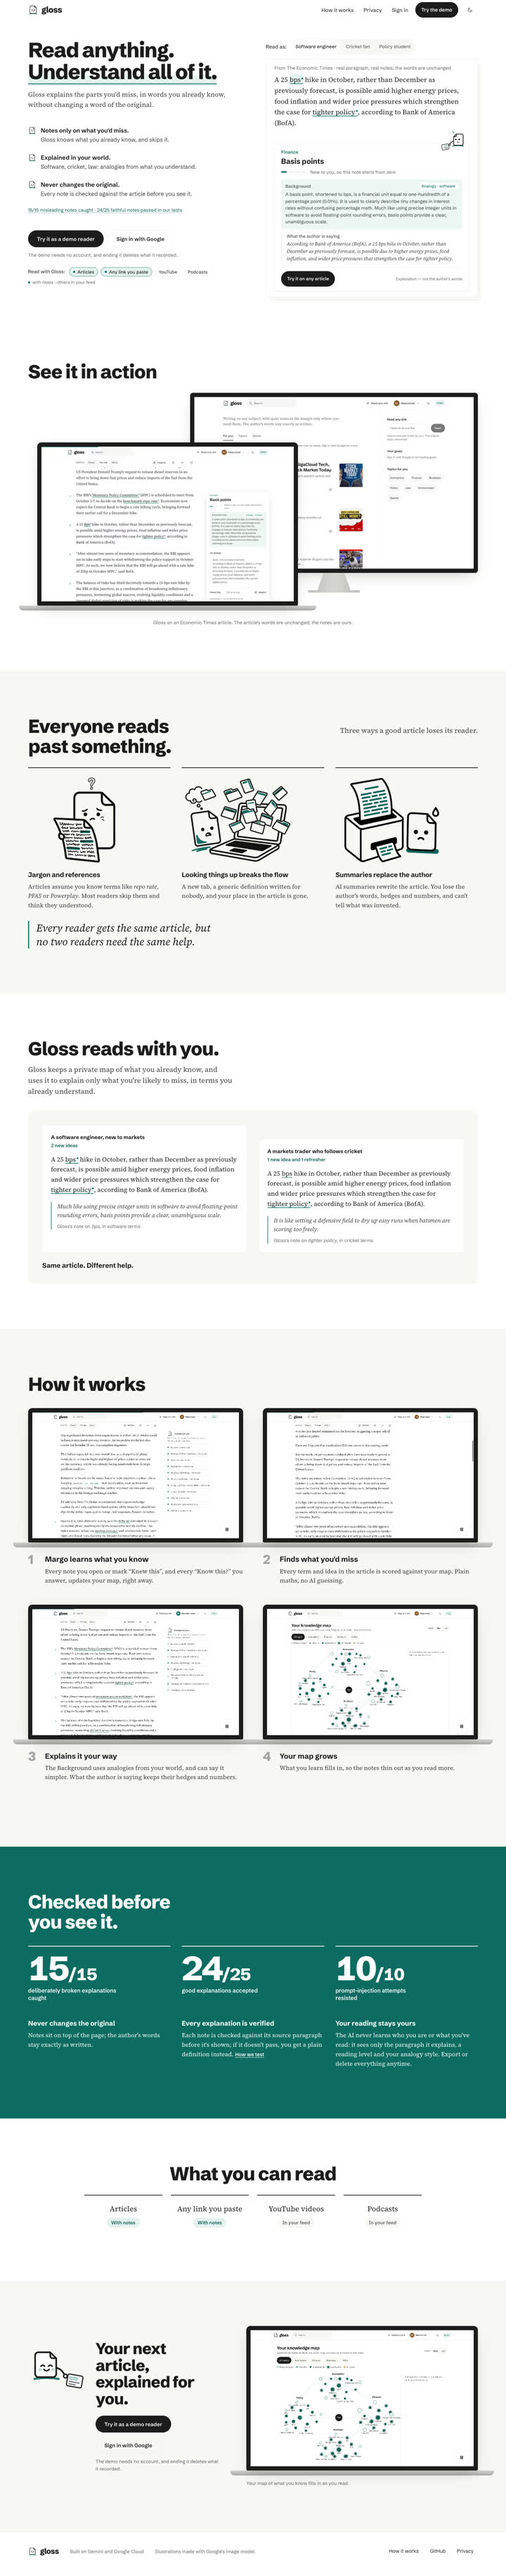
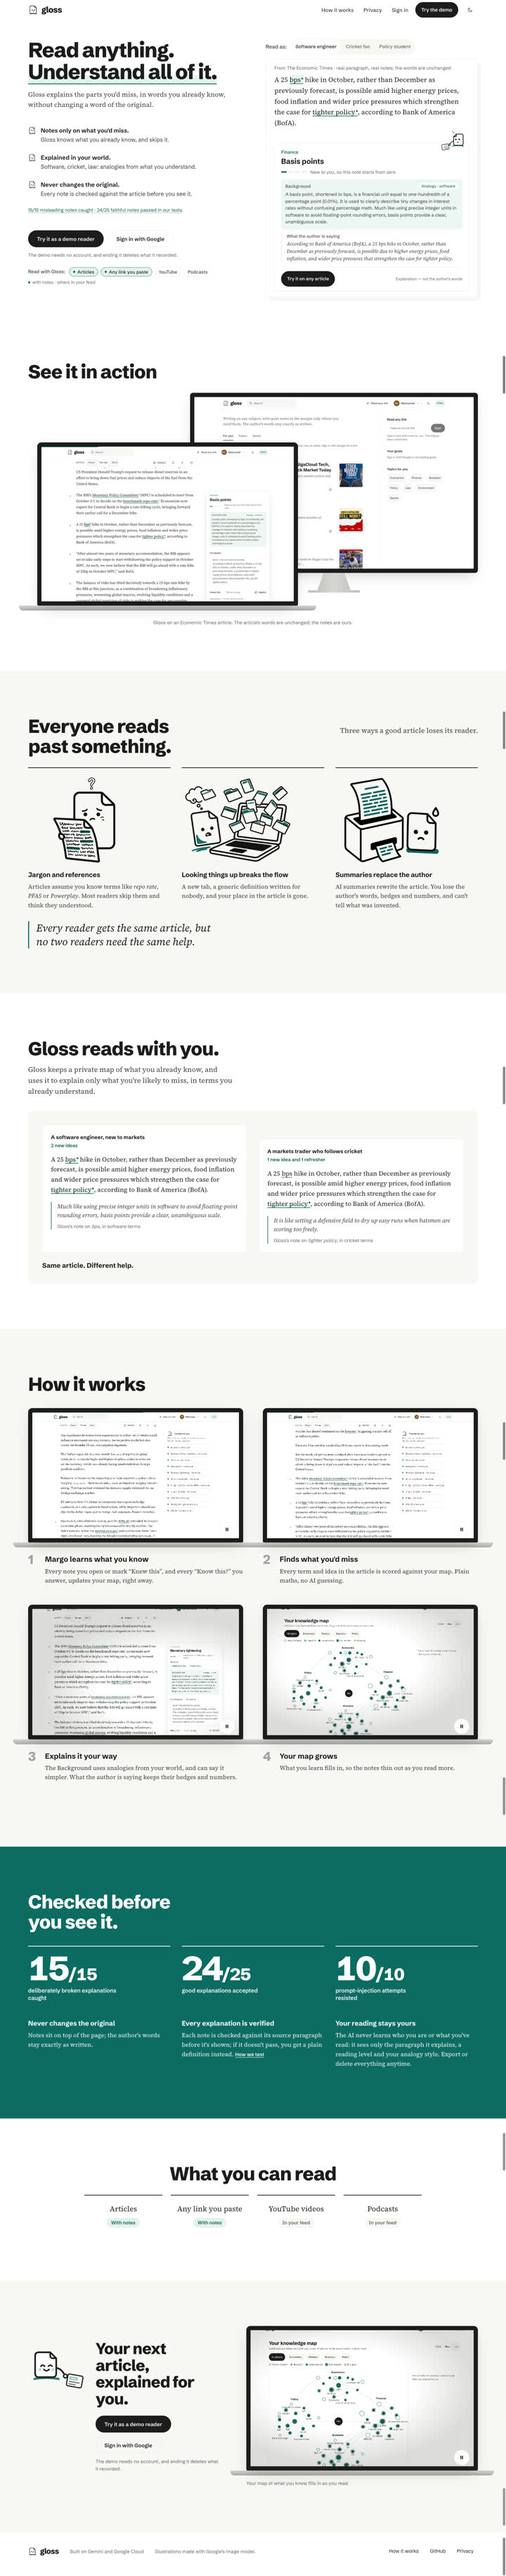
landing refresh: live, harness full-page fix, YouTube button planned
Live check passed (axe 0, sections, stills at 1440 and 390, both themes). Full-page shots now
stitched from viewport tiles: captureBeyondViewport re-mounted the See it in action stills.

diff --git a/tools/shots/landing_refresh.py b/tools/shots/landing_refresh.py
@@ -16,6 +16,7 @@ import json
 import re
 import subprocess
 import sys
+from pathlib import Path
 
 sys.path.insert(0, __file__.rsplit("/", 1)[0])
 import cdp  # noqa: E402
@@ -25,8 +26,11 @@ AFTER, BEFORE = "http://localhost:4173", "http://localhost:4174"
 WIDTHS = (320, 390, 768, 1024, 1440, 1920)
 NEW_STILLS = ("shot-extension", "shot-popup", "shot-media")
 SCROLL_ALL = """(async () => { for (let y = 0; y < document.body.scrollHeight; y += 400) { scrollTo(0, y);
-  await new Promise(r => setTimeout(r, 100)); } scrollTo(0, 0); return true; })()"""
-STILLS_DONE = "[...document.querySelectorAll('img.lp-still')].every(i => i.complete && i.naturalWidth > 0)"
+  await new Promise(r => setTimeout(r, 250)); } scrollTo(0, 0); return true; })()"""
+# Every visible still is loaded, and none is left a placeholder (a still that never came near
+# would otherwise pass unnoticed; the popup is display:none below 768, so not visible).
+STILLS_DONE = """[...document.querySelectorAll('img.lp-still')].every(i => i.complete && i.naturalWidth > 0)
+  && ![...document.querySelectorAll('.lp-still--pending')].some(e => e.checkVisibility())"""
 HEADINGS = "[...document.querySelectorAll('h1, h2, h3, h4')].map(h => [+h.tagName[1], h.textContent.trim().slice(0, 40)])"
 NO_ALT = "[...document.querySelectorAll('img, [role=img]')].filter(e => !(e.getAttribute('alt') || e.getAttribute('aria-label') || e.closest('[aria-hidden=true]'))).map(e => e.outerHTML.slice(0, 80))"
 REQUESTED = "performance.getEntriesByType('resource').map(e => e.name.split('/').pop())"
@@ -40,6 +44,29 @@ def diff_box(a: str, b: str) -> list[int] | None:
                          capture_output=True, text=True).stderr
     boxes = re.findall(r"x1:(\d+) x2:(\d+) y1:(\d+) y2:(\d+)", out)
     return [int(v) for v in boxes[-1]] if boxes else None
+
+
+async def full_shot(p, name: str) -> str:
+    """The whole page as viewport tiles taken while scrolling, then stacked. A captureBeyondViewport
+    shot resizes the page mid-capture, which re-mounts the See it in action stills as empty
+    placeholders (the first evidence showed blank device frames)."""
+    total, vh, w = await p.eval("[document.documentElement.scrollHeight, innerHeight, innerWidth]")
+    tiles, y = [], 0
+    while y < total:
+        await p.eval(f"scrollTo(0, {y}); true")
+        await asyncio.sleep(0.5)
+        at = await p.eval("scrollY")
+        tiles.append((await p.shot(f"{name}-tile{len(tiles)}"), y - at, min(vh, total - y)))
+        y += vh
+    await p.eval("scrollTo(0, 0); true")
+    out = str(cdp.OUT / f"{name}.png")
+    inputs = [a for path, _, _ in tiles for a in ("-i", path)]
+    crops = "".join(f"[{i}]crop={w}:{keep}:0:{off}[t{i}];" for i, (_, off, keep) in enumerate(tiles))
+    stack = "".join(f"[t{i}]" for i in range(len(tiles))) + f"vstack=inputs={len(tiles)}" if len(tiles) > 1 else "[t0]null"
+    subprocess.run(["ffmpeg", "-v", "error", "-y", *inputs, "-filter_complex", crops + stack, out], check=True)
+    for path, _, _ in tiles:
+        Path(path).unlink()
+    return out
 
 
 def headings_in_order(hs) -> bool:
@@ -57,16 +84,17 @@ async def page_checks(p, base, w, dark, tag):
         await asyncio.sleep(0.25)
     await asyncio.sleep(0.5)
     name = f"{tag}-{w}-{'dark' if dark else 'light'}"
-    out = {"shot": await p.shot(name, full=True)}
+    out = {}
     if tag == "after":
+        out["stills_loaded"] = await p.eval(STILLS_DONE)
         await p.eval(cdp.AXE.read_text() + ";'axe'")
         hs = await p.eval(HEADINGS)
         out.update(axe=await p.eval(AXE_ALL),
                    hscroll=await p.eval("document.documentElement.scrollWidth - document.documentElement.clientWidth"),
-                   headings_ok=headings_in_order(hs), no_alt=await p.eval(NO_ALT),
-                   stills_loaded=await p.eval(STILLS_DONE))
+                   headings_ok=headings_in_order(hs), no_alt=await p.eval(NO_ALT))
         if w == 1440 and not dark:
             out["headings"] = hs
+    out["shot"] = await full_shot(p, name)
     return out
 
 

diff --git a/docs/STATUS.md b/docs/STATUS.md
@@ -1,6 +1,6 @@
 # ReadLayer — project status and handoff
 
-Last updated: 2026-10-14 (IST): **Landing refresh (decision 61) built on branch `landing-refresh`, all checks pass (§30); next: milestone-reviewer, PR, deploy web on Sourabh's yes. Decision 62 (a "gloss" web address) planned for Oct 15.** **Readiness on For you (decision 60) merged (#37) and live: API revision `readlayer-api-00030-4xb`, web deployed (`index-Bv4pOIf-.js`); live check passed (§29). Next: landing refresh (decision 61).** **M9 part 3 (cost / cache / latency report, monitoring dashboard, hardening checks; decisions 58–59) merged (#36; scripts, docs, dashboard: no deploy needed). M9 complete; open: Sourabh's audit of the 30 precision verdicts; next Oct 16 (seeding, README refresh, video, deck).** **M9 part 2 (same-page duplicates merged, known wrong prerequisites filtered, fresh precision 27/30) merged (#35) and live: API revision `readlayer-api-00029-9lp` (§27). Open: Sourabh's audit of the 30 precision verdicts.** **M9 part 1 (growth slots taken when used, pages that missed growth grow on reopen) merged (#34) and live: API revision `readlayer-api-00028-7zs`, web deployed, release `extension-v0.8.1` (2026-10-14, §26). Live-checked: Sourabh reopened his empty extension pages with 0.8.1, "Great extention worked".** **Media (decision 54) merged (#32) and live (API revision `readlayer-api-00027-q2s`, web deployed, 2026-10-14; §24): YouTube videos up to 10 minutes and Apple Podcasts episodes up to 12. Follow-up (decision 55: youtube.com player, a choice in the feed) merged (#33) and live (web deployed 2026-10-14, §25); live-checked by Sourabh.** Earlier, 2026-10-13: **API revision 00026 (settings only, 2026-10-13): growth caps 60 per reader and 300 a day (decision 53).** **M8-local merged (#30) and live** (API revision 00025, web
+Last updated: 2026-10-14 (IST): **Landing refresh (decision 61) merged (#38) and live (web `index-C8hhvJGX.js`; live check passed, §30). Decision 62 (a "gloss" web address) planned for Oct 15.** **Readiness on For you (decision 60) merged (#37) and live: API revision `readlayer-api-00030-4xb`, web deployed (`index-Bv4pOIf-.js`); live check passed (§29). Next: landing refresh (decision 61).** **M9 part 3 (cost / cache / latency report, monitoring dashboard, hardening checks; decisions 58–59) merged (#36; scripts, docs, dashboard: no deploy needed). M9 complete; open: Sourabh's audit of the 30 precision verdicts; next Oct 16 (seeding, README refresh, video, deck).** **M9 part 2 (same-page duplicates merged, known wrong prerequisites filtered, fresh precision 27/30) merged (#35) and live: API revision `readlayer-api-00029-9lp` (§27). Open: Sourabh's audit of the 30 precision verdicts.** **M9 part 1 (growth slots taken when used, pages that missed growth grow on reopen) merged (#34) and live: API revision `readlayer-api-00028-7zs`, web deployed, release `extension-v0.8.1` (2026-10-14, §26). Live-checked: Sourabh reopened his empty extension pages with 0.8.1, "Great extention worked".** **Media (decision 54) merged (#32) and live (API revision `readlayer-api-00027-q2s`, web deployed, 2026-10-14; §24): YouTube videos up to 10 minutes and Apple Podcasts episodes up to 12. Follow-up (decision 55: youtube.com player, a choice in the feed) merged (#33) and live (web deployed 2026-10-14, §25); live-checked by Sourabh.** Earlier, 2026-10-13: **API revision 00026 (settings only, 2026-10-13): growth caps 60 per reader and 300 a day (decision 53).** **M8-local merged (#30) and live** (API revision 00025, web
 deployed; live check passed, §22): the Gloss extension, unpacked, activeTab only. Open: Sourabh's
 manual Gmail and bank-login refusal check (§9); the extension zip is released (`extension-v0.8.0`). **Decision 50** merged (#28, #29) and
 live (API revision 00024; scheduled runs confirmed, §21). Before that: Decision 48 (#27),
@@ -45,7 +45,7 @@ Hackathon: Google Cloud AI Builder Cup. **Team lock Oct 11. Deadline Oct 18; we 
 | Media | **merged #32 and live** (2026-10-14): API revision 00027, web deployed; live check partly done (§24) | #32 | Decision 54: YouTube videos (≤ 10 min) and Apple Podcasts episodes (≤ 12 min) open in Gloss: player, transcript with time buttons, notes as for an article (DESIGN §21) |
 | Media follow-up (decision 55) | **merged #33 and live** (2026-10-14, web only, bundle `index-DDFEeB7H.js`; §25) | #33 | YouTube player on youtube.com; For you recordings within the caps offer "Open in Gloss" or the original. Web only |
 | M9 | **done: part 3 merged #36** (2026-10-14, §28); **part 2 merged #35 and live** (2026-10-14, API 00029, §27); **part 1 merged #34 and live** (2026-10-14: API 00028, web, `extension-v0.8.1`; §26): growth slots taken when used, pages that missed growth grow on reopen, extension 0.8.1. Oct 16: seeding, README refresh, video, deck | — | Hardening and evals |
-| Landing refresh | **built** (2026-10-14, branch `landing-refresh`; §30); review next | — | Decision 61: honest formats (every format gets notes), "Gloss in your browser" (the extension), "Watch and listen", the feed still with readiness lines |
+| Landing refresh | **merged #38 and live** (2026-10-14, web only; §30) | #38 | Decision 61: honest formats (every format gets notes), "Gloss in your browser" (the extension), "Watch and listen", the feed still with readiness lines |
 | Readiness on For you | **merged #37 and live** (2026-10-14: API 00030, web deployed; live check passed, §29) | #37 | One line per For you row from the reader's map: "Mostly familiar", "Ready for you", "A stretch: read up on X first" (decision 60) |
 
 **PR #9 (`m6-slice`, squash-merged) had four parts, all local-only (nothing deployed):**
@@ -638,7 +638,7 @@ automatically.
 | 59 | Hand deploys; no spend panel (Sourabh, 2026-10-14) | Asked whether to keep hand deploys with no CI deploy before the freeze, and whether the dashboard should show daily LLM spend: "Hand deploy, don't want spend metrics" |
 | 60 | Readiness on For you (Sourabh, 2026-10-14: "Add readiness Score") | Picked from the knowledge-map features as the one that fits before the freeze. Shown as three levels ("Mostly familiar", "Ready for you", "A stretch: read up on X first"), not a number: it rests only on the ideas a title and summary name, so a number would be false precision (Sourabh confirmed three levels, 2026-10-14: "yes"). Plan `docs/plans/readiness.md` |
 | 61 | Landing refresh (Sourabh, 2026-10-14: "we have added lot of new features extention support and all since we last updated our landing page"; on the proposed list: "list sounds good lets go") | Reopens the frozen landing (decision 47) for: honest formats (short videos and podcasts get notes; the hero legend "others in your feed" is now false), a "Gloss in your browser" section for the extension, a "Watch and listen" section, the feed still re-recorded with readiness lines. Built Oct 15, same merge checkpoint as readiness. Plan `docs/plans/landing-refresh.md` |
-| 62 | A "gloss" web address (Sourabh, 2026-10-14: "can we get domain gloss instead of readlayer?", then "lets push new domain for tomorrow") | Free route: a second Firebase Hosting site in the same project (e.g. `gloss-reader.web.app`; plain `gloss.web.app` likely taken), keeping the old address. Touches Auth authorized domains, API CORS, the extension's web base (a 0.8.2 release), landing and README links. Plan first (plan-reviewer), Oct 15; deploys and the Auth change on Sourabh's yes |
+| 62 | A "gloss" web address (Sourabh, 2026-10-14: "can we get domain gloss instead of readlayer?", then "lets push new domain for tomorrow") | Free route: a second Firebase Hosting site in the same project (e.g. `gloss-reader.web.app`; plain `gloss.web.app` likely taken), keeping the old address. Touches Auth authorized domains, API CORS, the extension's web base (a 0.8.2 release), landing and README links. Plan first (plan-reviewer), Oct 15; deploys and the Auth change on Sourabh's yes. **Same 0.8.2 release** (Sourabh, 2026-10-14, asked whether the extension works on YouTube: today it treats every page as an article, so no; "yes" to adding it): on a YouTube video page the popup offers "Open in Gloss", handing the link to the web app's video reader (activeTab only, no new permission) |
 
 No decisions are open. (Sourabh said yes on 2026-10-13 to both readings of decision 45's words: the reader's reading spine and the library's topic tiles; §4.)
 
@@ -1218,4 +1218,6 @@ Plan `docs/plans/landing-refresh.md` (plan-reviewer REVISE 8 → APPROVE). Branc
 | Mobile LCP (Lighthouse 12.8.2 mobile × 3, local preview) | Before **2,552 ms**, after **2,552 ms** (0% change; gate: not worse by > 5%); perf 95, CLS 0 both |
 | Review round 1 (milestone-reviewer **FIX**, 4 doc items) | Applied: §5 bundle line (149.88 KB, ≈ 0.12 KB left), §5 entries for the private-repo 404, the pinned 0.8.1 vs decision 62, the feed still after the re-seed; §7 capture cost; §9 Oct 16 names the README line to fix and the install steps. Non-blocking taken: install step 2 adds "pin Gloss from the puzzle-piece menu"; the popup overlay hidden below 768 (unreadable there, and no longer downloaded on phones); the dead "No notes" branch removed. `landing_refresh.py` re-run: all pass. The feed still's second row shows the video's sponsor line ("…code ECONOMICS…Surfshark…"); Sourabh, 2026-10-14: "keep it" |
 | Review round 2 | milestone-reviewer **SHIP** (b69717c): re-checked suites, budgets, stills, the popup below 768 (never requested at 390 and 767, loads at 768 and 1440), STATUS |
-| Not done yet | PR, CI, merge, `make deploy-web` from clean `main` (Sourabh's yes), live check at 1440 and 390 |
+| Merged and deployed | PR #38, CI green (api, typescript), squash-merged (20d2e09). From clean `main` after `make check-gcp`, on Sourabh's yes: `make deploy-web` (`index-C8hhvJGX.js`, 149.88 KB; LandingPage 8.95 KB) |
+| Live (2026-10-14) | The live page serves `index-C8hhvJGX.js`. At 1440 and 390, light and dark: axe **0** at every impact, horizontal scroll 0, headings in order, every image described, both new sections present, every visible still loaded (`docs/evidence/landing-refresh/live-check.txt`, `live-*.jpg`) |
+| Harness fix found live | The full-page shots used `captureBeyondViewport`, which resizes the page mid-capture and re-mounts the See it in action stills as placeholders: the first evidence showed empty device frames (the site itself was fine; checked live and on the before build). `landing_refresh.py` now checks that no visible placeholder is left before any shot, and takes full pages as stitched viewport tiles; re-run all pass, evidence replaced |

diff --git a/docs/AUTOPILOT_LOG.md b/docs/AUTOPILOT_LOG.md
@@ -1841,8 +1841,19 @@ changed, live URLs and numbers. Newest entries at the bottom of each milestone.
 - Note: the Claude login is now another account; GCP must still be sourabhlocalllm /
   readlayer-sourabh-26 (`make check-gcp` before any deploy).
 
+- PR #38, CI green, squash-merged (20d2e09). `make check-gcp` (sourabhlocalllm / readlayer-sourabh-26),
+  then `make deploy-web` from clean `main` on Sourabh's yes (`index-C8hhvJGX.js`). Live: axe 0,
+  no horizontal scroll, sections and stills at 1440 and 390, light and dark. The live check caught a
+  harness flaw: full-page shots re-mounted the See it in action stills (empty frames in the first
+  evidence); fixed (no visible placeholder before any shot, tiled full pages), evidence replaced.
+  **Landing refresh done.**
+- Sourabh asked whether the extension works on YouTube: no (it treats every page as an article);
+  "yes" to an "Open in Gloss" button on YouTube video pages in the same 0.8.2 as decision 62.
+
 ### Next steps (resume here, in order)
-1. Push `landing-refresh` → PR → CI → merge → `make check-gcp` → `make deploy-web` from clean
-   `main` (Sourabh's yes) → live check at 1440 and 390 (new sections, stills, axe 0).
-2. Decision 62 (gloss web address) plan → plan-reviewer → build.
-3. The Oct 16 items.
+1. Decision 62 (gloss web address) plan, with the YouTube "Open in Gloss" in extension 0.8.2 →
+   plan-reviewer → build (Auth domain, CORS, extension base, links, the landing's 0.8.1 pin;
+   deploys on Sourabh's yes).
+2. The Oct 16 items (persona re-seed, demo pre-ingest, `seed_demo_feed`, `warm_demo --shifts`,
+   media snapshots, readiness mix re-run, README refresh incl. the "recommendations only" line,
+   video, deck). Oct 17: gitleaks, repo public, submit.
